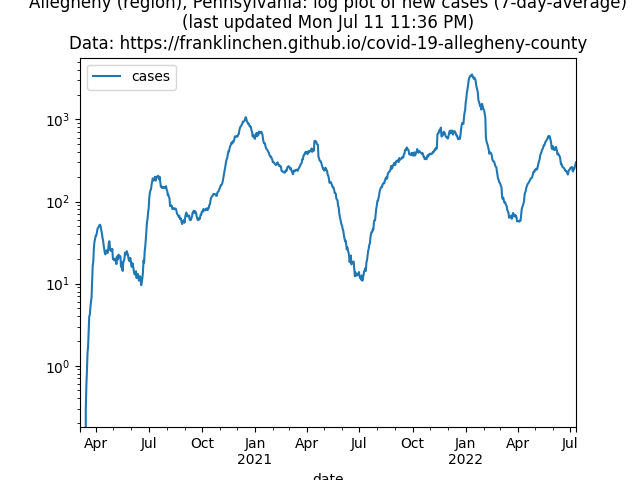
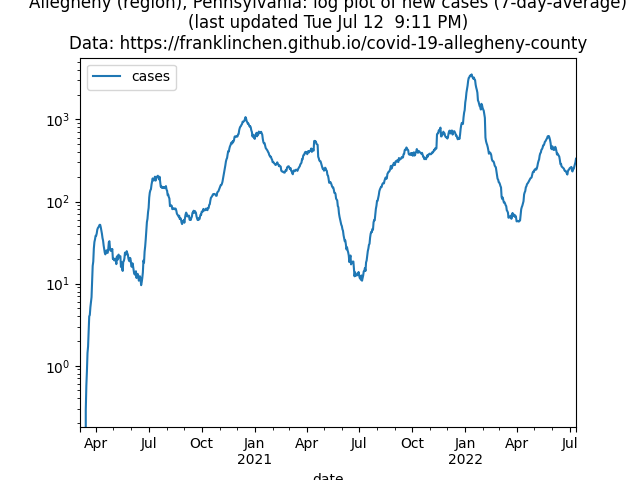
Counts.

diff --git a/index.html b/index.html
@@ -12,32 +12,23 @@
         </header>
 
         <aside>
-            Last updated: Mon Jul 11, 11:36 PM
-
-            <p>
-                Note: updates are becoming less frequent now because of reduced PA reporting.  Thursday afternoon updates are the most complete.
-            </p>
+            Last updated: Tue Jul 12,  9:11 PM
         </aside>
 
         <section>
             <h2>News</h2>
-            <p>June 17, 2022: <a href="https://www.fda.gov/news-events/press-announcements/coronavirus-covid-19-update-fda-authorizes-moderna-and-pfizer-biontech-covid-19-vaccines-children">FDA authorizes vaccines for children down to 6 months of age</a></p>
-            <p>May 16, 2022: you can order <a href="https://special.usps.com/testkits">free tests delivered by USPS</a> for the third time.</p>
-            <p>There is a very useful <a href="https://www.walgreens.com/businesssolutions/covid-19-index.jsp">Wallgreens COVID-19 Index</a> you might want to check.
-            </p>
-            <p>March 29, 2022: a second booster dose is now <a href="https://www.fda.gov/news-events/press-announcements/coronavirus-covid-19-update-fda-authorizes-second-booster-dose-two-covid-19-vaccines-older-and">FDA authorized</a> and available to individuals who are 50 years of age and older, or immunocompromised.
-</p>
 
+            <p>
+                July 12, 2022: I am eventually going to stop updating graphs here because reported case counts are now basically nonsensical because of severe undercounting. For example, consider the wastewater measurements in San Francisco compared to reported cases.
+            </p>
+            <figure id="sf">
+                <img src="sf.jpeg" width="40%" height="auto" alt="San Francisco Wastewater and Cases"/>
+            </figure>
             <p>The U.S. government has launched a comprehensive <a href="https://www.covid.gov/">COVID-19 portal site</a>.
             </p>
             <p>You can find out where to obtain <a href="https://www.cdc.gov/coronavirus/2019-ncov/your-health/free-masks.html">free N95 masks</a>
             </p>
             <p>Search for <a href="https://covid-19-test-to-treat-locator-dhhs.hub.arcgis.com/">one-stop test-to-treat locations</a> where you can get oral COVID-19 medication within 5 days of your first COVID-19 symptoms
-            <p>The U.S. government has released the <a href="https://www.whitehouse.gov/covidplan/">National COVID-19 Preparedness Plan</a>.
-
-                <p>Starting Mon March 7, every home in the U.S. will be able to order an additional set of 4 tests at <a href="https://www.covidtests.gov/">covidtests.gov</a>.
-            </p>
-
         </section>
 
         <section>
@@ -75,7 +66,7 @@
         </section>
         <section>
             <h2>More information</h2>
-            <p>You can download and use the official <a href="https://www.pa.gov/covid/covid-alert-pa/">COVID Alert PA mobile app</a>!
+            <p>The official <a href="https://www.pa.gov/covid/covid-alert-pa/">COVID Alert PA mobile app</a> was useful for two years, but will be discontinued on July 27, 2022.
             </p>
         </section>
 
@@ -95,40 +86,12 @@
                 </ul>
             </nav>
             <figure id="recentdailyaveraged">
-                <figcaption>
-                    <p>Because of the widespread use of at-home tests in 2022, <a href="https://yourlocalepidemiologist.substack.com/p/state-of-affairs-can-we-trust-case"><strong>officially recorded case counts are no longer an accurate measure of community transmission and infection</strong></a>. I have continued to provide the numbers anyway, even though by now they are probably a factor of <a href="https://www.theguardian.com/world/2022/jun/01/us-covid-surge-cases-rate">thirty</a> too low!
-                    </p>
-
-                    <p>Daily hospitalizations are inaccurate until Thursdays.
-                    </p>
-                </figcaption>
                 <img src="recentdailyaveraged.png" alt="Allegheny County: new daily (7-day-average) since March 1, 2022"/>
             </figure>
             <figure id="dailyaveraged">
-                <figcaption>
-                    <p>Because of the widespread use of at-home tests in 2022, <a href="https://yourlocalepidemiologist.substack.com/p/state-of-affairs-can-we-trust-case"><strong>officially recorded case counts are no longer an accurate measure of community transmission and infection</strong></a>. I have continued to provide the numbers anyway, even though by now they are probably a factor of <a href="https://www.theguardian.com/world/2022/jun/01/us-covid-surge-cases-rate">thirty</a> too low!
-                    </p>
-
-                    <p>Daily hospitalizations are inaccurate until Thursdays.
-                    </p>
-                    <p>
-                        Note: there was a case data dump on April 14, 2021 and a correction on November 13, 2021 (1,302 previously uncounted reinfections).
-                    </p>
-                </figcaption>
                 <img src="dailyaveraged.png" alt="Allegheny County: new daily (7-day-average)"/>
             </figure>
             <figure id="total">
-                <figcaption>
-                    <p>Because of the widespread use of at-home tests in 2022, <a href="https://yourlocalepidemiologist.substack.com/p/state-of-affairs-can-we-trust-case"><strong>officially recorded case counts are no longer an accurate measure of community transmission and infection</strong></a>. I have continued to provide the numbers anyway, even though by now they are probably a factor of <a href="https://www.theguardian.com/world/2022/jun/01/us-covid-surge-cases-rate">thirty</a> too low!
-                    </p>
-
-
-                    <p>Daily hospitalizations are inaccurate until Thursdays.
-                    </p>
-                    <p>
-                        Note: there was a case data dump on April 14, 2021 and a correction on November 13, 2021 (1,302 previously uncounted reinfections).
-                    </p>
-                </figcaption>
                 <img src="total.png" alt="Allegheny County: total"/>
             </figure>
         </section>
